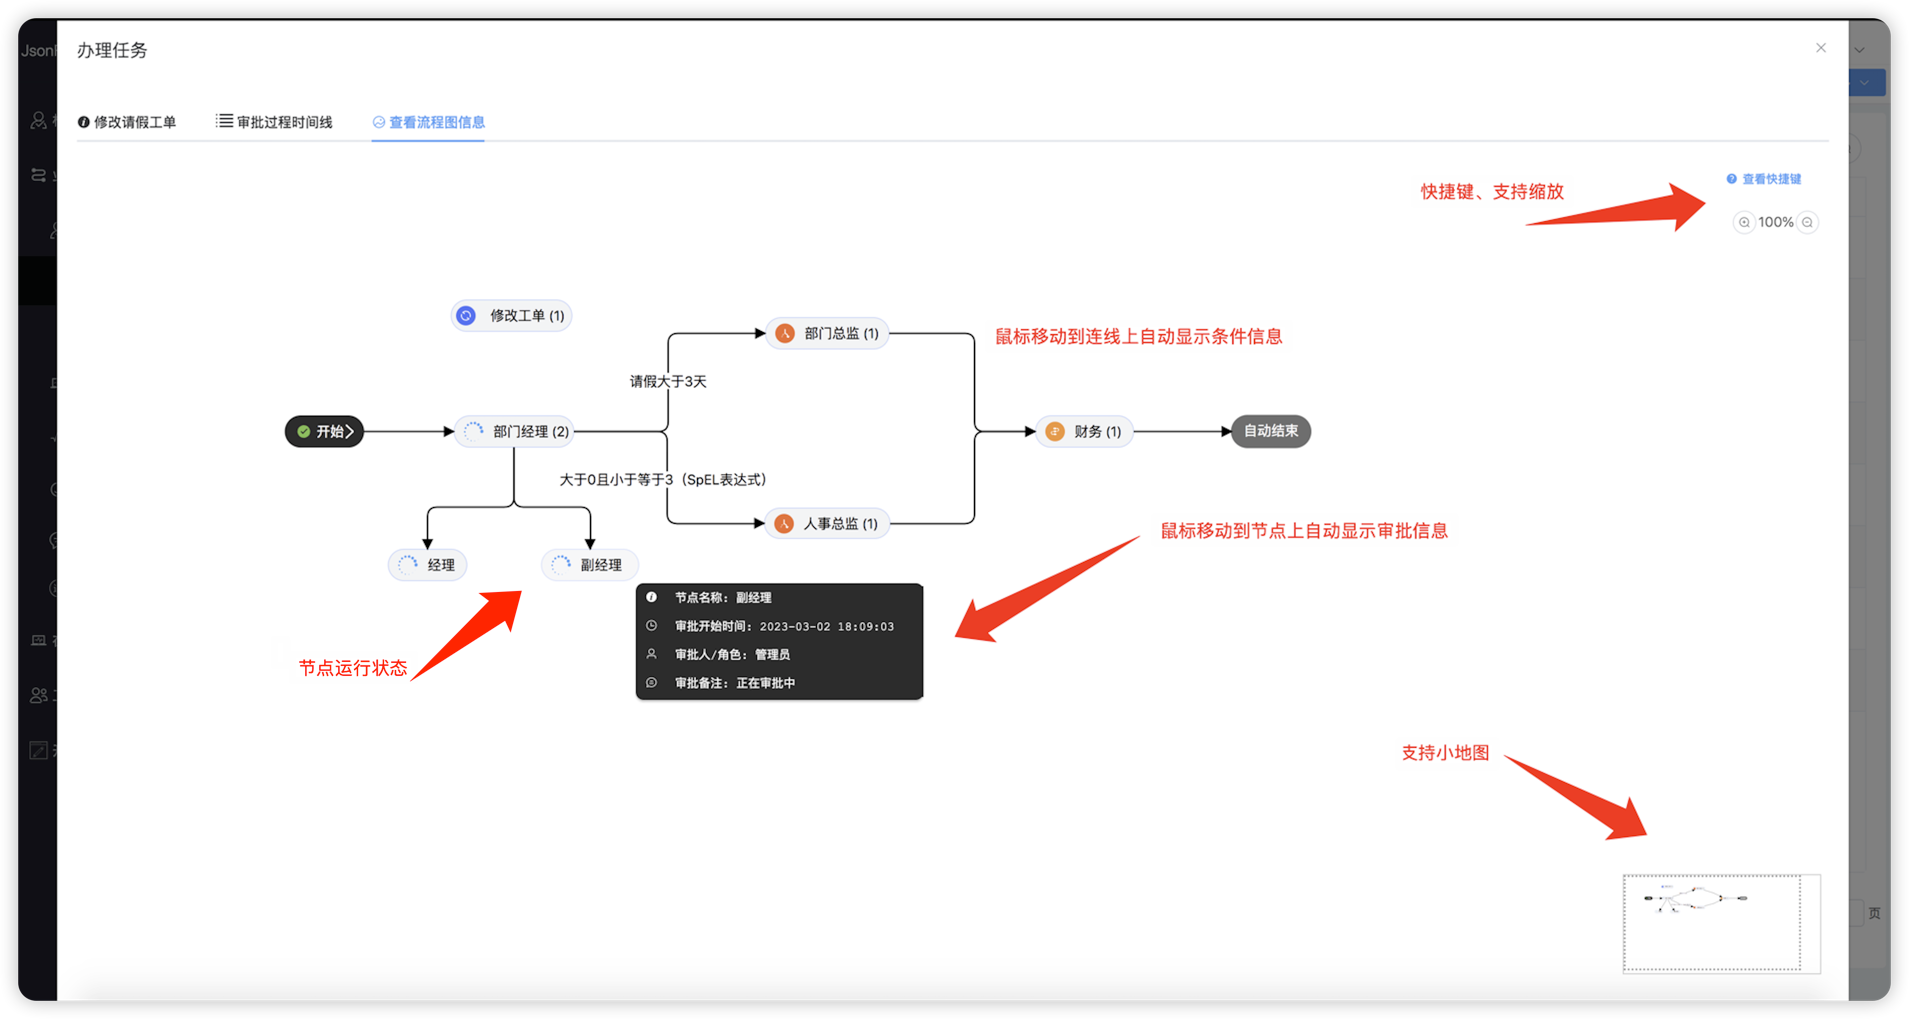
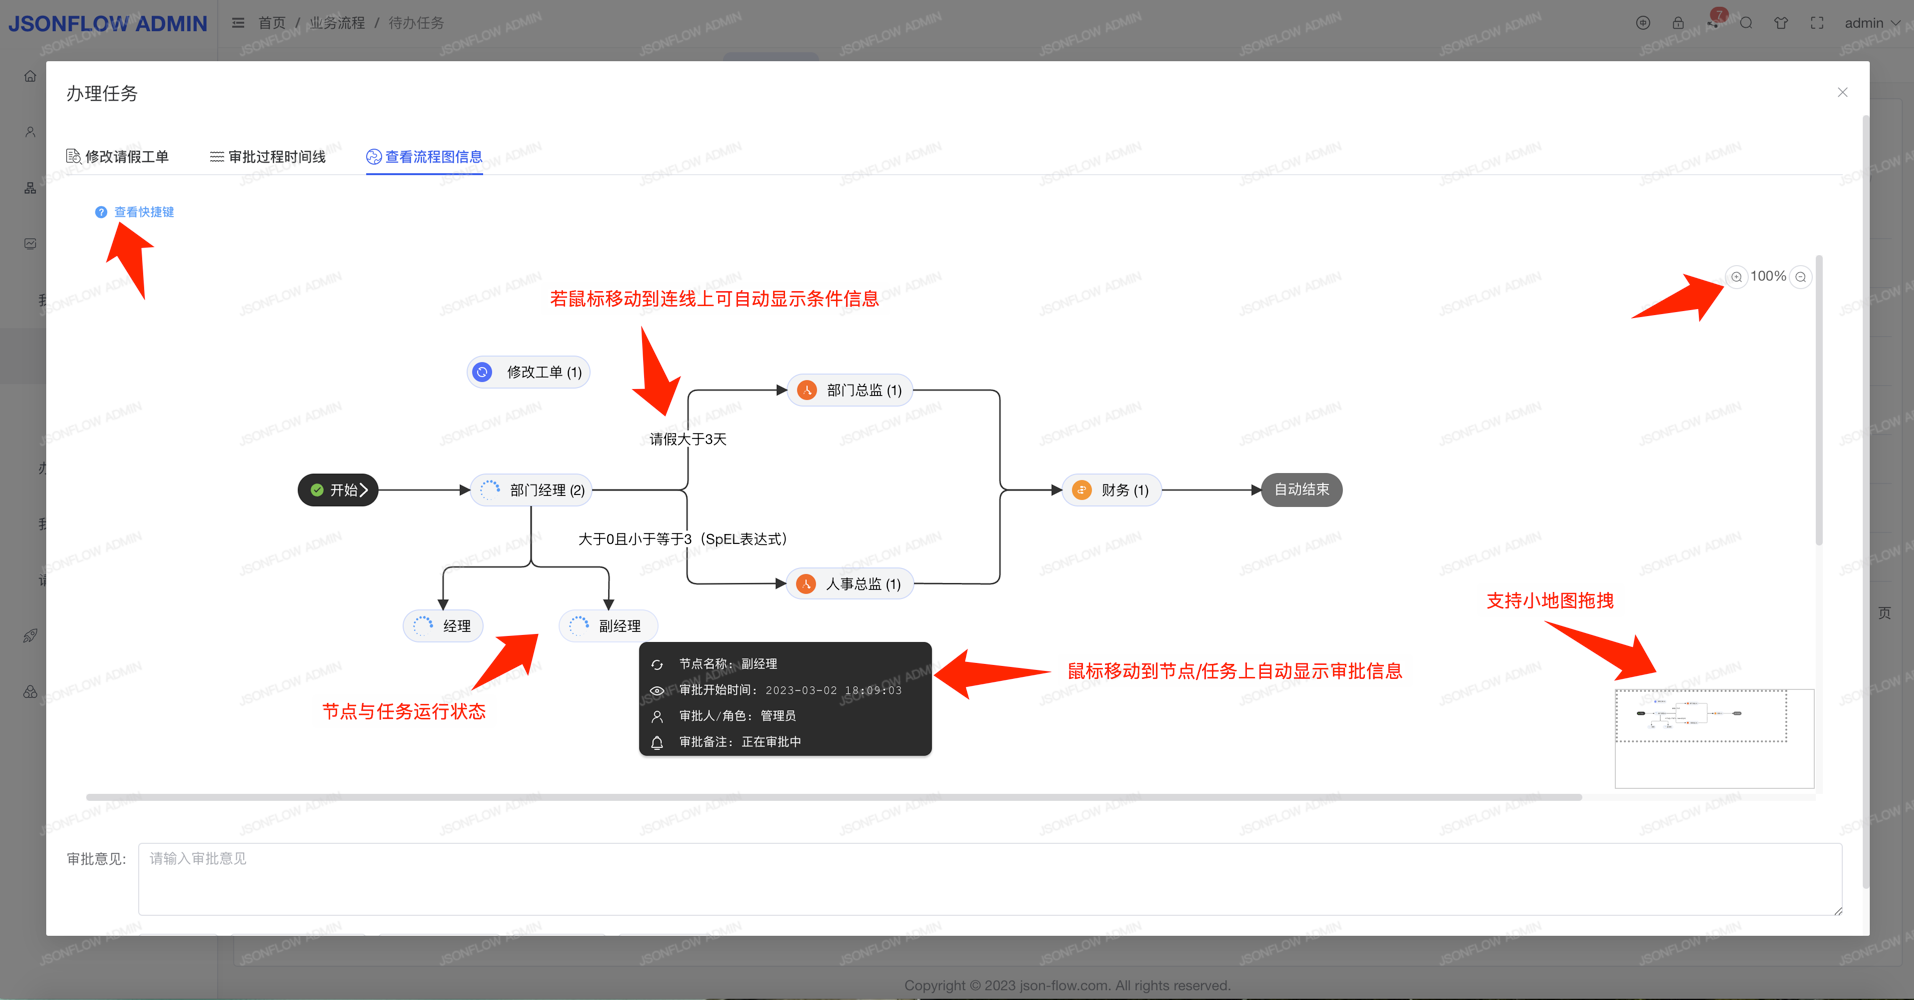
:sparkles: :fire: 钉钉简单模式与专业模式

diff --git a/README.md b/README.md
@@ -8,8 +8,6 @@
 |:-------------------------------------------------:|
 | 🔥大家可扫码加入交流群，群已超200+人被限制了。可以加我微信 ll766488893 拉你入群 |
 
-### 🔥🔥🔥JsonFlow商业版Pro已支持移动端APP、Vue3技术栈🔥🔥🔥
-
 ### JsonFlow在线演示（请联系作者微信ll766488893）
 [点击预览](http://47.109.57.40/)（JsonFlow SpringBoot单体版本） 【备注：微服务版本整合PIGX】
 
@@ -18,6 +16,8 @@
 
 
 #### 🎉🎉🎉绝对简单但强大易用易扩展且适应复杂场景的中国式审批的工作流引擎系统
+
+### 🔥🔥🔥JsonFlow商业版Pro已支持Vue3技术栈，一套前端代码同时支持[钉钉简单模式与专业模式]()，并提供[两套可选UI界面]()，同时适配[PC、Pad、H5]()多端显示，支持[移动端APP办公]()（含流程图回显）🔥🔥🔥
 
 ### 🔥🔥🔥JsonFlow商业版Pro强大功能🔥🔥🔥
 #### 注：商业版流程设计器全新自研更简单强大，核心与开源版不同
@@ -30,7 +30,7 @@
 
 #### 系统介绍
 
-- 🎉🎉 JsonFlow工作流系统前端已支持移动端APP、Vue3技术栈，支持一套前端代码同时适配PC、Pad、H5多端显示，移动端APP办公（含流程图回显）。
+- 🎉🎉 JsonFlow工作流已支持`Vue3技术栈`，一套前端代码同时支持`钉钉简单模式与专业模式`，并提供`两套可选UI界面`，同时适配`PC、Pad、H5`多端显示，支持`移动端APP办公`（含流程图回显）
 
 - 🔥🔥 JsonFlow提供文档和配套视频，**功能描述清晰简洁，学习成本低**，持续更新优化中（VIP文档-请先订阅VIP）
 #### 工作流管理、工单管理、工作交接模块
@@ -39,7 +39,10 @@
 
 - 本系统同时支持在线工作与任务交接，弥补了传统BPM工作流需单独处理的不足，方便公司人员流动后的工作交接
 
-#### UI美观操作简单⭐
+#### 钉钉UI界面⭐-常用于普通用户操作
+- ![01](public/usages/img_1.png)
+
+#### 专业UI界面⭐-常用于专业用户操作
 - 流程图设计：拖拽节点到绘图区，进行任意连线。在流程设计时可将鼠标移动到节点或连线上右键菜单设置属性（节点可直接双击），非常方便快捷操作
 - 可自由设置连线/路由/布局`改变连线形式`、画布内的节点/连线均`可拖拽和调整大小`，未来可自定义图形
 - ![01](public/usages/img.png)
